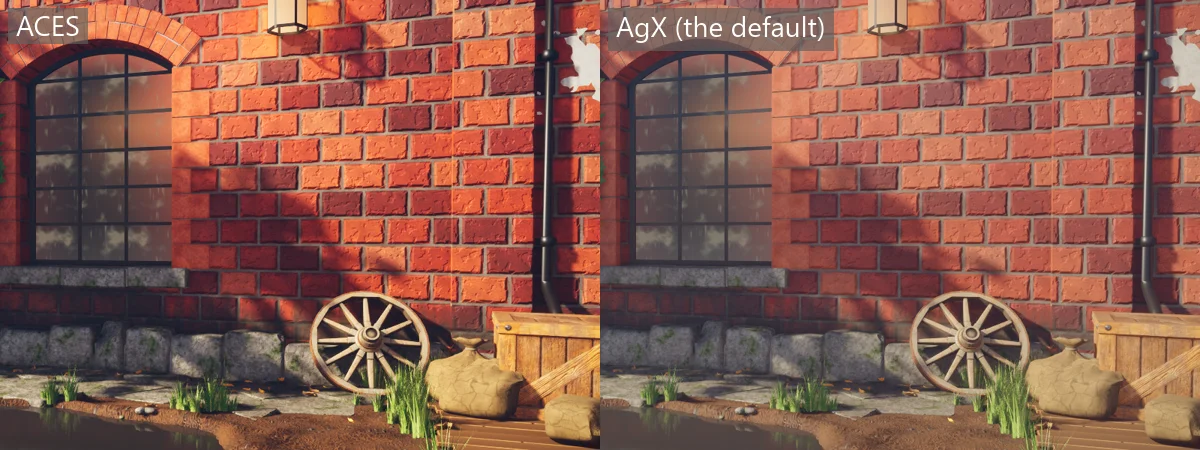
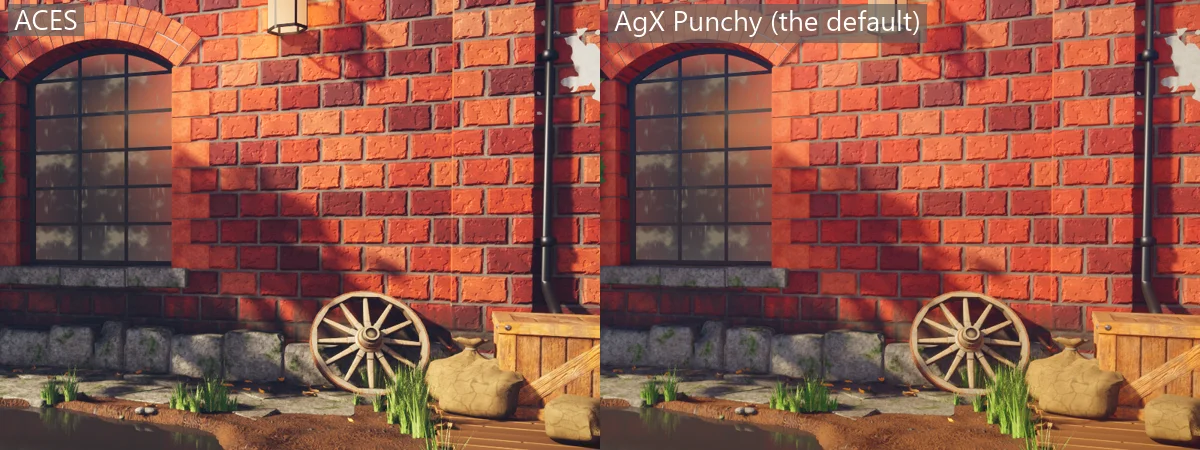
fix: AgX gets Blender's Punchy look by default so the courtyard no longer reads pastel
AgxLook { Punchy, Base } on PostSettings, passed to the tone mapping in frame.curve.
The courtyard retunes its exposure, contrast and saturation for it. Adds a hand-worked
12000 K white-balance test and corrects the tone mapping picture's alt text.

diff --git a/tests/Super.Tests/PostGradeTests.cs b/tests/Super.Tests/PostGradeTests.cs
@@ -96,28 +96,51 @@ public class PostGradeTests
         Assert.Equal(radii + 144, (int)Marshal.OffsetOf<FrameUniforms>(nameof(FrameUniforms.SunDisc)));
         Assert.Equal(radii + 160, (int)Marshal.OffsetOf<FrameUniforms>(nameof(FrameUniforms.Fog)));
         Assert.Equal(radii + 176, (int)Marshal.OffsetOf<FrameUniforms>(nameof(FrameUniforms.WhiteBalance)));
-        Assert.Equal(radii + 240, (int)Marshal.OffsetOf<FrameUniforms>(nameof(FrameUniforms.LightCount)));
-        Assert.Equal(radii + 240 + 28, (int)Marshal.OffsetOf<FrameUniforms>(nameof(FrameUniforms.LocalLightCount)));
-        Assert.Equal(radii + 240 + 32, (int)Marshal.OffsetOf<FrameUniforms>(nameof(FrameUniforms.Off)));
-        Assert.Equal(radii + 240 + 40, (int)Marshal.OffsetOf<FrameUniforms>(nameof(FrameUniforms.ProbeCapture)));
-        Assert.Equal(radii + 240 + 48, (int)Marshal.OffsetOf<FrameUniforms>(nameof(FrameUniforms.Lights)));
+        Assert.Equal(radii + 240, (int)Marshal.OffsetOf<FrameUniforms>(nameof(FrameUniforms.Curve)));
+        Assert.Equal(radii + 256, (int)Marshal.OffsetOf<FrameUniforms>(nameof(FrameUniforms.LightCount)));
+        Assert.Equal(radii + 256 + 28, (int)Marshal.OffsetOf<FrameUniforms>(nameof(FrameUniforms.LocalLightCount)));
+        Assert.Equal(radii + 256 + 32, (int)Marshal.OffsetOf<FrameUniforms>(nameof(FrameUniforms.Off)));
+        Assert.Equal(radii + 256 + 40, (int)Marshal.OffsetOf<FrameUniforms>(nameof(FrameUniforms.ProbeCapture)));
+        Assert.Equal(radii + 256 + 48, (int)Marshal.OffsetOf<FrameUniforms>(nameof(FrameUniforms.Lights)));
     }
 
     [Fact]
-    public void Post_settings_left_alone_use_agx()
+    public void Post_settings_left_alone_use_agx_with_the_punchy_look()
     {
-        var (_, gain) = PostGrade.Tint(default);
+        var curve = PostGrade.Curve(default);
 
-        Assert.Equal(Tonemapper.Agx, default(PostSettings).Tonemapper);
-        Assert.Equal(0f, gain.W);
+        Assert.Equal(new Vector4(0f, 1.35f, 1.4f, 0f), curve);
+    }
+
+    [Fact]
+    public void The_base_agx_look_leaves_the_curve_alone()
+    {
+        var curve = PostGrade.Curve(new PostSettings { AgxLook = AgxLook.Base });
+
+        Assert.Equal(new Vector4(0f, 1f, 1f, 0f), curve);
     }
 
     [Fact]
     public void Asking_for_aces_tells_the_shader_to_use_its_curve()
     {
-        var (_, gain) = PostGrade.Tint(new PostSettings { Tonemapper = Tonemapper.Aces });
+        var curve = PostGrade.Curve(new PostSettings { Tonemapper = Tonemapper.Aces });
 
-        Assert.Equal(1f, gain.W);
+        Assert.Equal(1f, curve.X);
+    }
+
+    [Fact]
+    public void The_bluest_temperature_turns_a_12000_kelvin_white_into_the_6500_kelvin_one()
+    {
+        // Worked by hand from the CIE table of black-body colours: 12000 K is at xy (0.2719, 0.2777)
+        // and 6500 K at (0.3135, 0.3237). Each at Y = 1, through the Rec.709 matrix from XYZ.
+        var bluish = new Vector3(0.8271f, 0.9944f, 1.5652f);
+        var neutral = new Vector3(1.0425f, 0.9839f, 1.0348f);
+
+        var balanced = Vector3.Transform(bluish, PostGrade.WhiteBalance(1f, 0f));
+
+        Assert.Equal(neutral.X, balanced.X, 0.01f);
+        Assert.Equal(neutral.Y, balanced.Y, 0.01f);
+        Assert.Equal(neutral.Z, balanced.Z, 0.01f);
     }
 
     [Fact]

diff --git a/src/Rendition/Passes/PostGrade.cs b/src/Rendition/Passes/PostGrade.cs
@@ -16,16 +16,25 @@ internal static class PostGrade
     // How far Tint 1 moves the white off the line of black-body colours, in the CIE 1960 uv plane.
     private const double MaxDuv = 0.02;
 
-    /// <summary>
-    /// The lift, with the bloom's strength in w, and the gain as a multiplier for each channel, with
-    /// 1 in w when the picture uses the ACES curve rather than AgX.
-    /// </summary>
+    /// <summary>The lift, with the bloom's strength in w, and the gain as a multiplier for each channel.</summary>
     public static (Vector4 Lift, Vector4 Gain) Tint(in PostSettings post)
     {
         float bloom = Math.Clamp(DefaultBloom + post.Bloom, 0f, 1f);
         var gain = Vector3.Max(Vector3.One + post.Gain, Vector3.Zero);
+        return (new Vector4(post.Lift, bloom), new Vector4(gain, 0f));
+    }
+
+    /// <summary>
+    /// Which curve the tone-mapping pass uses, as <c>frame.curve</c>: x is 1 for ACES and 0 for AgX;
+    /// y and z are the AgX look's power and saturation, applied to the curve's display values.
+    /// Blender's Punchy look is a power of 1.35 and a saturation of 1.4; the base look is 1 and 1.
+    /// </summary>
+    public static Vector4 Curve(in PostSettings post)
+    {
         float aces = post.Tonemapper == Tonemapper.Aces ? 1f : 0f;
-        return (new Vector4(post.Lift, bloom), new Vector4(gain, aces));
+        return post.AgxLook == AgxLook.Base
+            ? new Vector4(aces, 1f, 1f, 0f)
+            : new Vector4(aces, 1.35f, 1.4f, 0f);
     }
 
     /// <summary>

diff --git a/examples/Courtyard/CourtyardGame.cs b/examples/Courtyard/CourtyardGame.cs
@@ -102,18 +102,17 @@ public sealed class CourtyardGame(Content content, Input input, Graphics graphic
         // Someone is home: a warm light in the room, seen through the old glass.
         view.PointLight(RoomKey, RoomLamp, color: new Vector3(2.2f, 1.2f, 0.45f), range: 6f, radius: 0.25f);
 
-        // The camera meters the courtyard and sets the brightness itself, then adds about a third of a
-        // stop so the shade stays open and the sunlit wall bright. AgX, the default curve, keeps the
-        // sunlit bricks apart where ACES ran them into one orange, but reads softer, so contrast and
-        // saturation are up to match. A warm white balance for the afternoon, a cool lift in the
-        // shade, and a little bloom round the lamp.
+        // The camera meters the courtyard and sets the brightness itself, then adds about a stop:
+        // AgX's Punchy look, the default, deepens the mid-tones, and the sunlit wall should read
+        // bright. A touch more contrast and saturation for an afternoon sun, a warm white balance,
+        // a cool lift in the shade, and a little bloom round the lamp.
         view.Finish(new PostSettings
         {
             AutoExposure = true,
-            Exposure = 0.3f,
+            Exposure = 1.05f,
             Temperature = 0.08f,
-            Contrast = 0.3f,
-            Saturation = 0.2f,
+            Contrast = 0.25f,
+            Saturation = 0.15f,
             Vignette = 0.35f,
             Sharpen = 0.2f,
             Bloom = 0.06f,

diff --git a/src/Rendition/Types.cs b/src/Rendition/Types.cs
@@ -452,6 +452,12 @@ public struct PostSettings
     public Tonemapper Tonemapper;
 
     /// <summary>
+    /// The look on top of AgX. <see cref="AgxLook.Punchy"/>, the default, deepens the mid-tones and
+    /// strengthens colour; <see cref="AgxLook.Base"/> is the plain curve. It has no effect under ACES.
+    /// </summary>
+    public AgxLook AgxLook;
+
+    /// <summary>
     /// White balance from -1 to 1, with 0 unchanged. Above 0 warms the picture, as if the camera were
     /// balanced for light bluer than daylight (1 is 12000 K); below 0 cools it (-1 is 4000 K).
     /// 0.1 is a gentle afternoon warmth.
@@ -476,6 +482,16 @@ public enum Tonemapper
 
     /// <summary>A fit of the ACES film curve: punchier mid-tones, but saturated highlights go flat.</summary>
     Aces,
+}
+
+/// <summary>A look on top of the <see cref="Tonemapper.Agx"/> curve, as Blender offers. ACES ignores it.</summary>
+public enum AgxLook
+{
+    /// <summary>Blender's Punchy look: deeper mid-tones and richer colour, so a sunlit scene doesn't read pale.</summary>
+    Punchy,
+
+    /// <summary>The plain AgX curve: softer and paler, with the most room in the highlights.</summary>
+    Base,
 }
 
 /// <summary>How a <see cref="ScreenTransition"/> brings in the new picture.</summary>

diff --git a/src/Rendition/Renderer.cs b/src/Rendition/Renderer.cs
@@ -1908,6 +1908,7 @@ public sealed unsafe class Renderer : IDisposable
         uniforms->Finish = new Vector4(view.Post.Sharpen, view.Post.Grain, shift.X, shift.Y);
         (uniforms->Lift, uniforms->Gain) = PostGrade.Tint(view.Post);
         uniforms->WhiteBalance = PostGrade.WhiteBalance(view.Post.Temperature, view.Post.Tint);
+        uniforms->Curve = PostGrade.Curve(view.Post);
         (uniforms->HazeOrigin, uniforms->HazeColor) = Haze.Pack(view.CameraPosition, view.BackgroundFadeOrigin, view.BackgroundFadeColor);
         uniforms->Occlusion = Occlusion.Pack(view.Occlusion);
         uniforms->Fog = Fog.Pack(view.Fog, _off, capturingProbe, underwater: view.Water.Absorption != Vector3.Zero);

diff --git a/src/Rendition/Passes/FrameUniforms.cs b/src/Rendition/Passes/FrameUniforms.cs
@@ -137,6 +137,9 @@ internal struct FrameUniforms
     /// <summary>The white balance on linear colour, which the tone-mapping pass applies before its curve. See <see cref="PostGrade.WhiteBalance"/>.</summary>
     public Matrix4x4 WhiteBalance;
 
+    /// <summary>x: 1 for the ACES curve, 0 for AgX; y, z: the AgX look's power and saturation. See <see cref="PostGrade.Curve"/>.</summary>
+    public Vector4 Curve;
+
     public int LightCount;
     public float Time;
     public int FrameNumber;

diff --git a/docs/design.md b/docs/design.md
@@ -1402,14 +1402,19 @@ to how a lens scatters light, and nothing pops as a surface crosses a threshold.
 `PostSettings.Bloom` adds to the share, which starts at 5%.
 
 Tonemapping uses AgX by default and Stephen Hill's fit of the ACES film transform when
-`PostSettings.Tonemapper` asks for `Aces`. `PostGrade.Tint` puts 1 in `frame.gain.w` for
-ACES, and the shader picks the curve with a branch that is the same for every pixel, so
-there is no second pipeline and no `RenderEffects` bit. AgX is Benjamin Wrensch's minimal
-form of Blender 4's default look: an inset matrix pulls each colour a little towards
-white, log2 encodes it between 2^-12.47 and 2^4.03 (about 10 stops below middle grey and 6.5 above), a
-sixth-order polynomial fits the contrast curve, and the outset matrix and a 2.2 power turn
-the result back into linear colour for the sRGB target. Middle grey 0.18 comes out at
-about 0.21 with both curves, so swapping curves needs no exposure change. The ACES fit works
+`PostSettings.Tonemapper` asks for `Aces`. `PostGrade.Curve` fills `frame.curve` (after
+`whiteBalance`): x is 1 for ACES, and y and z are the AgX look's power and saturation. The
+shader picks the curve with a branch that is the same for every pixel, so there is no
+second pipeline and no `RenderEffects` bit. AgX is Benjamin Wrensch's minimal form of
+Blender 4's: an inset matrix pulls each colour a little towards white, log2 encodes it
+between 2^-12.47 and 2^4.03 (about 10 stops below middle grey and 6.5 above), and a
+sixth-order polynomial fits the contrast curve. The look then works on those display
+values: luma is taken first, each channel is raised to the power, and the result is pushed
+away from that luma by the saturation. `AgxLook.Punchy`, the default, is Wrensch's 1.35 and
+1.4; `AgxLook.Base` is 1 and 1, which leaves the curve alone. Last, the outset matrix and a
+2.2 power turn the result back into linear colour for the sRGB target. Middle grey 0.18
+comes out at about 0.21 through ACES and the base look, so swapping those needs no exposure
+change; Punchy's power takes it to about 0.12, near 0.8 of a stop darker. The ACES fit works
 in ACES's own colour space, so very bright colours fade towards white instead of shifting
 hue, and `ACES_EXPOSURE` in `tonemap.frag` keeps the scene as bright as the lighting was
 balanced for.
@@ -1422,6 +1427,7 @@ positive towards green. The matrix adapts that white to the 6500 K one by Bradfo
 scaling, wrapped in the Rec.709 to XYZ matrices, so it acts on linear Rec.709. A camera
 balanced for bluer light than the scene's turns the picture warmer, so positive
 `Temperature` warms and positive `Tint` pulls towards magenta. 0 and 0 give the identity.
+Neutral is the 6500 K black body, which sits a little off D65, so it is not the sRGB white.
 It is applied after exposure and before contrast, saturation and the curve. `View.Finish`
 refuses values outside -1 to 1; `WhiteBalance` itself clamps them and counts NaN as 0, so
 Rendition used alone never uploads a broken matrix. Probe captures never reach the tonemap,

diff --git a/docs/rendering.md b/docs/rendering.md
@@ -310,6 +310,7 @@ each channel that much brighter, by its share, so it shows most in the highlight
 | Setting | What it does |
 | --- | --- |
 | `Tonemapper` | The curve that fits the scene's light into what a screen shows. `Tonemapper.Agx`, the default, or `Tonemapper.Aces` for the older, punchier look. See [tone mapping](#tone-mapping) |
+| `AgxLook` | The look on top of AgX. `AgxLook.Punchy`, the default, deepens the mid-tones and strengthens colour; `AgxLook.Base` is the plain, softer curve. ACES ignores it |
 | `Temperature` | White balance, from -1 to 1. Above 0 warms the picture, as if the camera were balanced for light bluer than daylight: 1 balances for 12000 K. Below 0 cools it, down to 4000 K at -1. 0.1 is a gentle afternoon warmth |
 | `Tint` | White balance the other way, from -1 to 1. Above 0 pulls the picture towards magenta, below 0 towards green |
 
@@ -325,17 +326,23 @@ The scene's light runs far brighter than a screen can show, so a curve squeezes 
 AgX, the default, is the curve Blender 4 uses. It moves bright, strongly coloured light
 gradually towards white, so a sunlit brick wall keeps the difference between its bricks.
 ACES, the older look, is punchier in the mid-tones but takes saturated highlights to one
-flat colour. AgX also reads a little softer, so a scene moving over from ACES may want a
-touch more `Contrast` and `Saturation`: the Courtyard uses 0.3 and 0.2. Middle grey comes
-out at about the same brightness with either, so exposure needs no change.
+flat colour.
+
+On its own AgX reads soft and pale, so it comes with Blender's Punchy look by default,
+which deepens the mid-tones and strengthens colour. Punchy also puts middle grey about
+0.8 of a stop darker on screen than ACES or the plain curve, so a scene moving over from
+ACES wants more `Exposure`: the Courtyard uses 1.05 with auto exposure, with `Contrast`
+0.25 and `Saturation` 0.15. `AgxLook.Base` is the plain curve, which keeps middle grey where
+ACES puts it and leaves the most room in the highlights.
 
 ```csharp
 view.Finish(new PostSettings { Tonemapper = Tonemapper.Aces });   // the older look
+view.Finish(new PostSettings { AgxLook = AgxLook.Base });         // AgX without the Punchy look
 ```
 
-Both curves cost about the same, so `Graphics.Fastest()` leaves the choice alone.
+Both curves and both looks cost about the same, so `Graphics.Fastest()` leaves the choice alone.
 
-![The Courtyard's sunlit wall with the same settings through ACES on the left, where the bricks go one saturated orange, and AgX on the right, where they keep their differences in tone](media/agx.webp)
+![The Courtyard's sunlit wall at about the same brightness through ACES on the left, which runs the sunlit bricks hotter and more orange, and AgX with the Punchy look on the right, which keeps them a deeper red](media/agx.webp)
 
 `Sharpen` gives back the crispness anti-aliasing blends away, from 0 to 1. It sharpens fine,
 faint detail such as a texture's grain the most and edges that already stand out hardly at

diff --git a/docs/roadmap.md b/docs/roadmap.md
@@ -33,8 +33,8 @@ Super is early. These are the known gaps, so you can plan around them.
   grey, and it brightens and darkens at the same speed, where an eye opens up more slowly
   than it closes down.
 - [AgX](rendering.md#tone-mapping) is a close polynomial fit of Blender 4's default look
-  in Rec.709, not its exact curve, and it has none of Blender's other looks, such as
-  Punchy or Golden. There is no output for HDR screens.
+  in Rec.709, not its exact curve. Of Blender's looks it has Punchy and the base curve,
+  but none of the others, such as Golden. There is no output for HDR screens.
 - **Large numbers of objects.** Rendition's efficiency with many thousands of objects
   still has to be measured and improved.
 - **Render scale.** [Graphics settings](rendering.md#graphics-settings) turn effects off,
